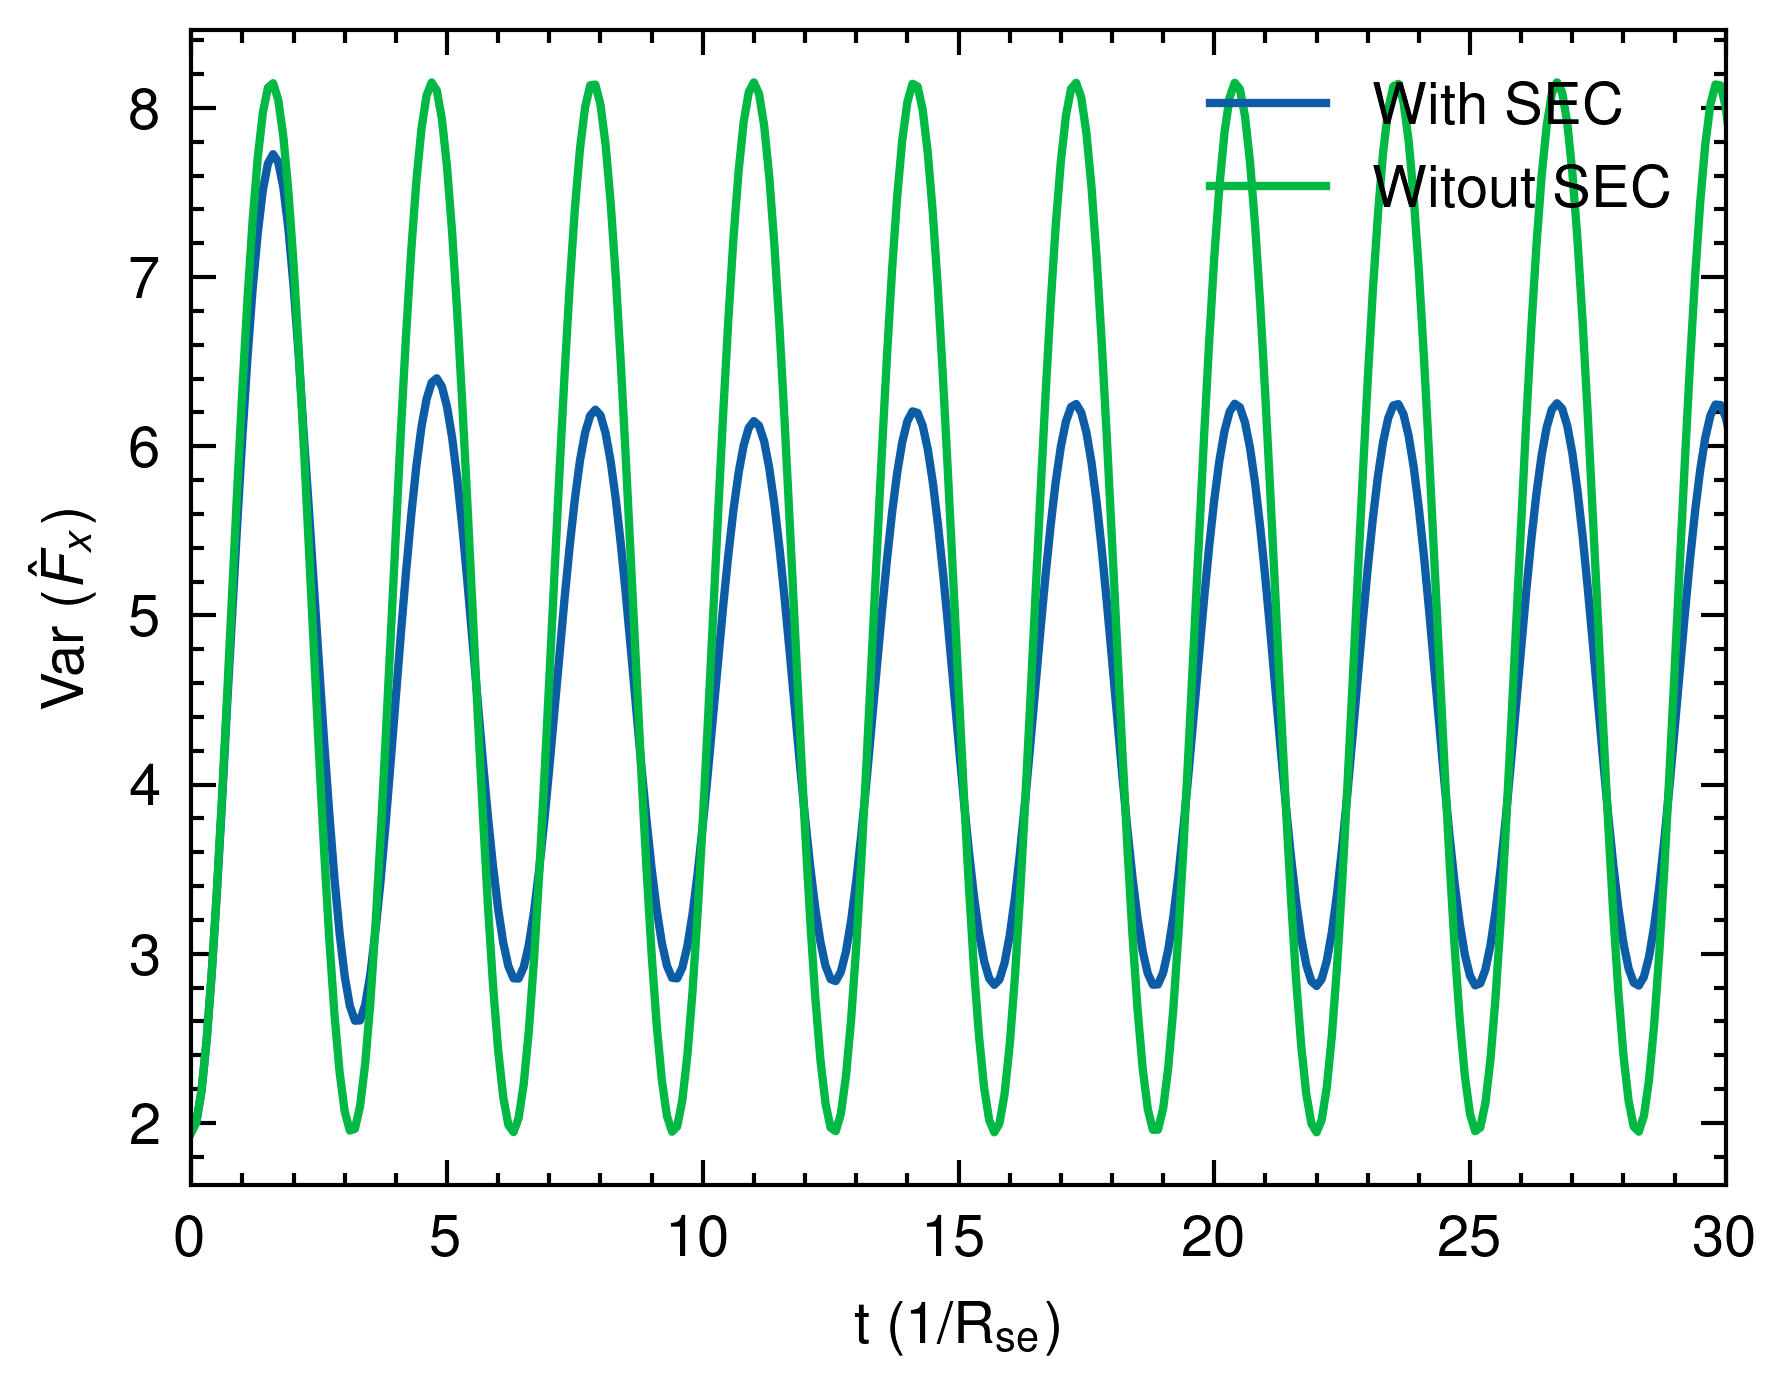
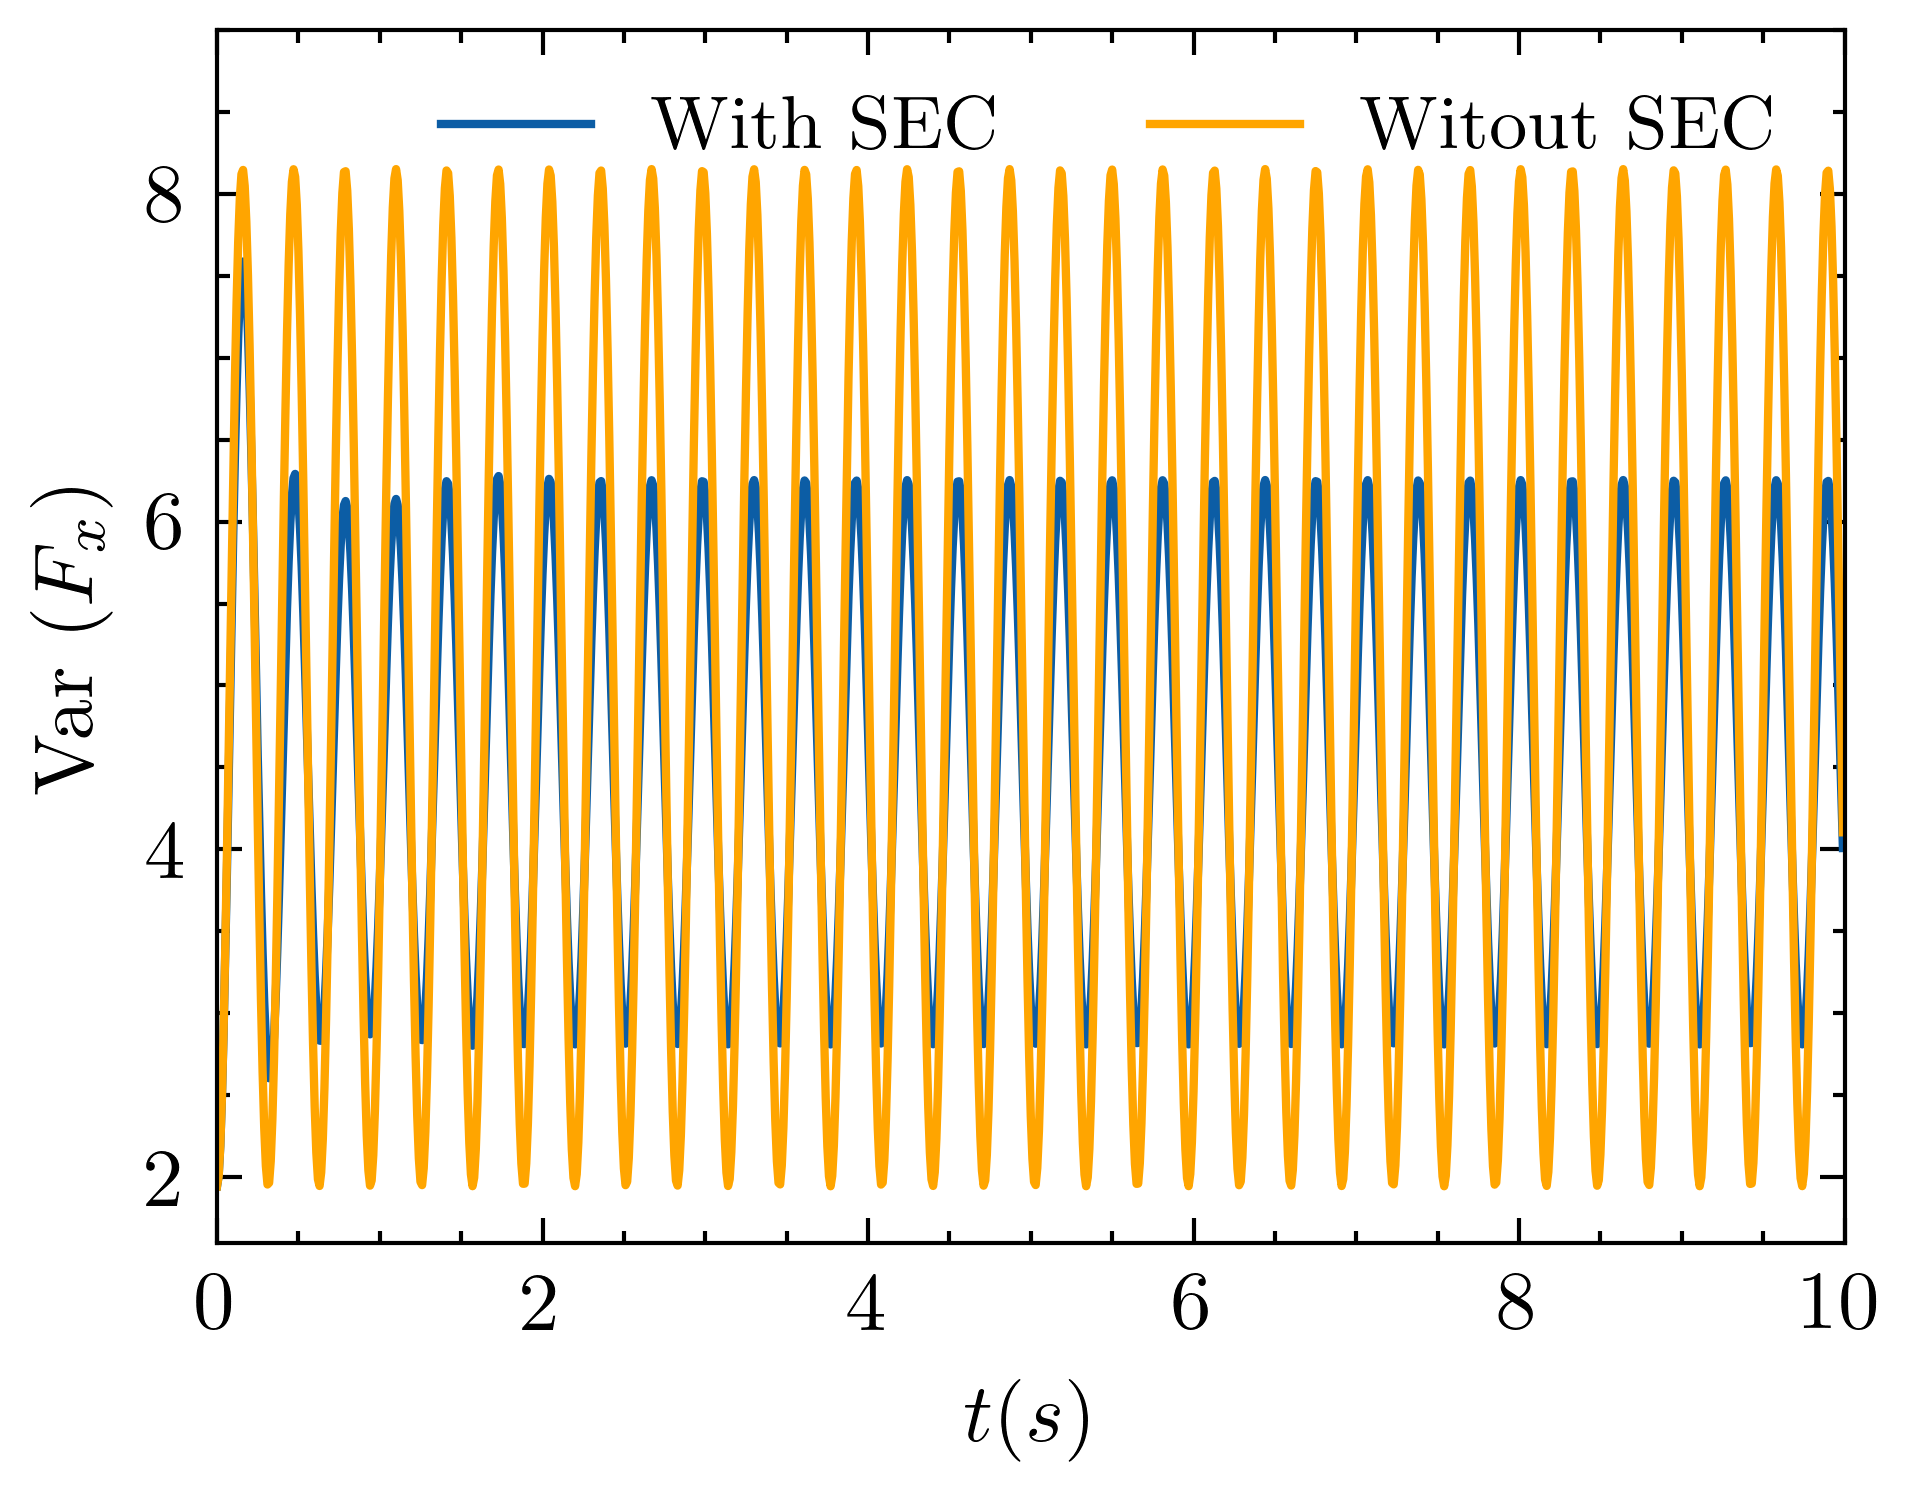
1

diff --git a/Simulation_of_DME/test.py b/Simulation_of_DME/test.py
@@ -25,11 +25,11 @@ def master_equation(I,Rse,omega_0,rf,T,Arf):
 
     # --------------------------------Characterize interactions envolved-----------------------------------#
     # omega_0 = 0.01
-    Rsd = 0.005
+    Rsd = 0.
     # sx=1  #/np.sqrt(2)
     # sz=0    #1/np.sqrt(2)
     # --------------------------------Define the initial state-----------------------------------#
-    theta = 0
+    theta = np.pi/4
     phi = 0
     a_theta = spin_Jx(a) * np.sin(theta) * np.cos(phi) + spin_Jy(a) * np.sin(theta) * np.sin(phi) + spin_Jz(a) * np.cos(
         theta)
@@ -42,7 +42,7 @@ def master_equation(I,Rse,omega_0,rf,T,Arf):
     Rho_ini = np.zeros(2 * (a + b + 1))
 
     # # -----------------spin temperature state-----------------#
-    P = 0.999
+    P = 0.9999999
     beta = np.log((1 + P) / (1 - P))
     for i in np.arange(0, 2 * (a + b + 1), 1):
         Rho_ini = Rho_ini + np.exp(beta * q[i]) * v[:, [i]] * v[:, [i]].T.conjugate()
@@ -54,18 +54,18 @@ def master_equation(I,Rse,omega_0,rf,T,Arf):
 
     # --------------------------------------Evolution under hyperfine effect, etc.--------------------------------#
     # omega_rev=1/100
-    omega_rev=0.25
+    omega_rev=0.15
     Rhot = Rho_ini
     dt = 0.01
     hyperfine = block_diag(np.ones((2 * a + 1, 2 * a + 1)), np.ones((2 * b + 1, 2 * b + 1)))  # 一个原子
     MSx = np.zeros(round(T / dt))
     for n in trange(0, round(T / dt), 1):
-        if n<round(T / dt)/50:
-            omega_1=Arf*np.sin(rf*n*dt)
-            probability=np.diagonal(Rhot)
-        else: omega_1=0
+        # if n<round(T / dt)/50:
+        #     omega_1=Arf*np.sin(rf*n*dt)
+        #     probability=np.diagonal(Rhot)
+        # else: omega_1=0
         # H = omega_0 * Sz+omega_1*Sy # 投影定理
-        H = omega_0 * az-omega_rev* az@az-omega_0*bz+omega_rev* bz@bz+omega_1*(ay-by) # 投影定理
+        H = omega_0 * az-omega_rev* az@az-omega_0*bz+omega_rev* bz@bz # 投影定理
         q, v = np.linalg.eig(H)
         evolving_B = v @ np.diag(np.exp(-1j * q * dt)) @ np.linalg.inv(v)
         # -----------------Evolution-----------------#
@@ -90,21 +90,32 @@ def master_equation(I,Rse,omega_0,rf,T,Arf):
         # -----------------Observables-----------------#
         MSx[n] = mSx
 
-    return MSx,probability
+    return MSx
 
 
 T1=1000
 dt=0.01
 # master_equation(I,Rse,omega_0,rf,T,Arf):
 
-Msy1,probability1=master_equation(3/2,0.,1,0.25,T1,100/1000)
+Msy1=master_equation(3/2,0.,0.1,2,T1,100/1000)
 # Msy2,probability2=master_equation(3/2,0.,1,1,T1,10/1000)
 # Msy3,probability3=master_equation(3/2,0.,1,1,T1,100/1000)
 # Msy4,probability4=master_equation(3/2,0.,1,1,T1,200/1000)
 tt=np.arange(0,T1,dt)
 m=[1,2,3,4,5,6,7,8]
 
+plt.style.use(['science'])
+with plt.style.context(['science']):
+    fig = plt.figure()
+    plt.rc('font',family='Times New Roman')
+    ax1 = fig.add_subplot(111)
+    pp,=ax1.plot(tt, Msy1)
+    ax1.set_ylabel('$\langle Sx \\rangle$')
+    ax1.set_xlabel('$t $')
+    ax1.axes.xaxis.set_ticklabels([])
 
+plt.savefig('FID_.png', dpi=1000)
+plt.show()
 # plt.style.use(['science','nature'])
 # with plt.style.context(['science','nature']):
 #     fig = plt.figure(figsize=(3.35, 8))
@@ -156,19 +167,19 @@ m=[1,2,3,4,5,6,7,8]
 # plt.savefig('FID_.png', dpi=1000)
 # plt.show()
 
-plt.style.use(['science','nature'])
-with plt.style.context(['science','nature']):
-    fig = plt.figure(figsize=(3.35, 4))
-    plt.rc('font',family='Times New Roman')
-    ax1 = fig.add_subplot(211)
-    ax1.bar(m, probability1)
-    ax1.set_xticks(m,['$|22\\rangle$','$|21\\rangle$','$|20\\rangle$','$|2,-1\\rangle$','$|2,-2\\rangle$','$|11\\rangle$','$|10\\rangle$','$|1,-1\\rangle$'])
-    ax1.set_ylabel('$P_m$', fontsize=9)
-    ax2 = fig.add_subplot(212)
-    ax2.plot(tt, Msy1)
-    ax2.set_ylabel('$Sx$', fontsize=9)
-    ax2.set_xlabel('$t$', fontsize=9)
-    ax2.legend(["$A_{rf}=\\frac {100 \omega_0} {1000}$,$T_{rf}=\\frac {20} { \omega_0}  $"])
+# plt.style.use(['science','nature'])
+# with plt.style.context(['science','nature']):
+#     fig = plt.figure(figsize=(3.35, 4))
+#     plt.rc('font',family='Times New Roman')
+#     ax1 = fig.add_subplot(211)
+#     ax1.bar(m, probability1)
+#     ax1.set_xticks(m,['$|22\\rangle$','$|21\\rangle$','$|20\\rangle$','$|2,-1\\rangle$','$|2,-2\\rangle$','$|11\\rangle$','$|10\\rangle$','$|1,-1\\rangle$'])
+#     ax1.set_ylabel('$P_m$', fontsize=9)
+#     ax2 = fig.add_subplot(212)
+#     ax2.plot(tt, Msy1)
+#     ax2.set_ylabel('$Sx$', fontsize=9)
+#     ax2.set_xlabel('$t$', fontsize=9)
+#     ax2.legend(["$A_{rf}=\\frac {100 \omega_0} {1000}$,$T_{rf}=\\frac {20} { \omega_0}  $"])
 
-    plt.savefig('FID2.png', dpi=1000)
-plt.show()
+#     plt.savefig('FID2.png', dpi=1000)
+# plt.show()

diff --git a/Correlations_and_squeezing/Faraday rotation measurement copy.py b/Correlations_and_squeezing/Faraday rotation measurement copy.py
@@ -4,30 +4,30 @@
 日期：2024年03月07日
 """
 # -*- coding:utf-8 -*-
+import sys
+sys.path.append(r"D:\python\pythonProject\Optically_pumped_atoms\my_functions")
 import numpy as np
 import matplotlib.pyplot as plt
-from qutip import *
-from my_functions.Generate_a_squeezed_state_by_QND import Generate_a_squeezed_state_by_QND
-from my_functions.alkali_atom_uncoupled_to_coupled import alkali_atom_uncoupled_to_coupled
+from Generate_a_squeezed_state_by_QND import Generate_a_squeezed_state_by_QND
+from alkali_atom_uncoupled_to_coupled import alkali_atom_uncoupled_to_coupled
 from scipy.linalg import *
-from my_functions.spin_operators_of_2or1_alkali_metal_atoms import spin_operators_of_2or1_alkali_metal_atoms
-from my_functions.ptr import ptr
+from spin_operators_of_2or1_alkali_metal_atoms import spin_operators_of_2or1_alkali_metal_atoms
+from ptr import ptr
 from scipy.linalg import *
 import scienceplots
 from matplotlib.ticker import FuncFormatter
 from scipy.stats import norm
-from tqdm import trange
 import pandas as pd
 
 # ax, ay, az, bx, by, bz, a1x, a2x, a1y, a2y, a1z, a2z, Fx, Fy, Fz
-x = np.array(pd.read_csv('data/x.csv')).flatten()
-C_1z2z = np.array(pd.read_csv('data/C_1z2z.csv')).flatten()
-C_1z1z  = np.array(pd.read_csv('data/C_1z1z.csv')).flatten()
+x = np.array(pd.read_csv('D:/Optically-pumped-atoms/data/x.csv')).flatten()
+C_1z2z = np.array(pd.read_csv('D:/Optically-pumped-atoms/data/C_1z2z.csv')).flatten()
+C_1z1z  = np.array(pd.read_csv('D:/Optically-pumped-atoms/data/C_1z1z.csv')).flatten()
 T=10
 dt=0.01
 Jx=np.arange(-4,4,0.01)
-plt.style.use(['science','nature'])
-with plt.style.context(['science','nature']):
+plt.style.use(['science'])
+with plt.style.context(['science']):
     tt = np.arange(0, T, dt)/10
     fig = plt.figure(figsize=(3.35, 4.8))
     ax_1  = fig.add_subplot(212)
@@ -39,7 +39,7 @@ with plt.style.context(['science','nature']):
     ax_1.plot([],[])
     ax_1.set_ylim([0,0.6])
 #     ax_1.plot(Jx,1/np.sqrt(2*np.pi)*np.exp(-Jx**2/2),linestyle='dashed')
-    ax_1.set_xlabel('$\\tilde{ J_x}$', fontsize=9)
+    ax_1.set_xlabel('$\langle{ F_x}\\rangle^{\prime}$', fontsize=9)
     ax_1.set_ylabel('Distribution@$t=1$', fontsize=9)
     ax_1.tick_params(axis='x', labelsize='9' )
     ax_1.tick_params(axis='y', labelsize='9' )
@@ -50,13 +50,13 @@ with plt.style.context(['science','nature']):
     up=C_1z1z+np.sqrt(C_1z2z)/2
     ax_2.plot(tt,C_1z1z)
     ax_2.fill_between(tt, down,up,facecolor = 'red', alpha = 0.5)
-    ax_2.text(8.5/10, 0.1, '$\mathbb{E}[\\tilde{ J_x}]$',fontsize=6)
-    ax_2.annotate('$\sqrt{ \widetilde{\mathrm{var}} (\hat {J_x}) }$', xy=(0.3/10, 1), xytext=(2/10, 1),
+    ax_2.text(8.5/10, 0.1, '$\mathbb{E}[\langle{ F_x}\\rangle^{\prime}]$',fontsize=6)
+    ax_2.annotate('$\sqrt{ {\mathrm{var}} ({F_x}) }$', xy=(0.3/10, 1), xytext=(2/10, 1),
             arrowprops=dict(arrowstyle='->', color='red'),fontsize=6)
 
     ax_2.plot(tt, np.zeros(1000),color='black',linestyle='dashed')
     ax_2.set_xlabel('t ($1/\Phi$)', fontsize=9)
-    ax_2.set_ylabel('$\\tilde{ J_x}$', fontsize=9)
+    ax_2.set_ylabel('$\langle{ F_x}\\rangle^{\prime}$', fontsize=9)
     ax_2.tick_params(axis='x', labelsize='9' )
     ax_2.tick_params(axis='y', labelsize='9' )
     ax_2.text(0.975, 1.5, '(a)',fontsize=8)

diff --git a/Correlations_and_squeezing/desqueezing by Zeeman and hyperfine effect.py b/Correlations_and_squeezing/desqueezing by Zeeman and hyperfine effect.py
@@ -61,11 +61,11 @@ if N == 3:
 
 # ----------------------electron spin----------------------#
 if N == 2:
-    Sx = np.kron(np.eye(round(2 * I + 1)), np.array(1 / 2 * sigmax()))
+    Sx = np.kron(np.eye(round(2 * I + 1)), np.array(1 / 2 * sigmax().full()))
     Sx = U.T.conjugate() @ Sx @ U
-    Sy = np.kron(np.eye(round(2 * I + 1)), np.array(1 / 2 * sigmay()))
+    Sy = np.kron(np.eye(round(2 * I + 1)), np.array(1 / 2 * sigmay().full()))
     Sy = U.T.conjugate() @ Sy @ U
-    Sz = np.kron(np.eye(round(2 * I + 1)), np.array(1 / 2 * sigmaz()))
+    Sz = np.kron(np.eye(round(2 * I + 1)), np.array(1 / 2 * sigmaz().full()))
     Sz = U.T.conjugate() @ Sz @ U
 
     S1x = np.kron(Sx, np.eye(2 * (a + b + 1)))
@@ -79,11 +79,11 @@ if N == 2:
     Pt12 = 3 / 4 * np.eye(round((2 * (2 * I + 1)) ** N)) + (S1x @ S2x + S1y @ S2y + S1z @ S2z)
     Pe12 = Pt12 - Ps12
 if N == 3:
-    Sx = np.kron(np.eye(round(2 * I + 1)), np.array(1 / 2 * sigmax()))
+    Sx = np.kron(np.eye(round(2 * I + 1)), np.array(1 / 2 * sigmax().full()))
     Sx = U.T.conjugate() @ Sx @ U
-    Sy = np.kron(np.eye(round(2 * I + 1)), np.array(1 / 2 * sigmay()))
+    Sy = np.kron(np.eye(round(2 * I + 1)), np.array(1 / 2 * sigmay().full()))
     Sy = U.T.conjugate() @ Sy @ U
-    Sz = np.kron(np.eye(round(2 * I + 1)), np.array(1 / 2 * sigmaz()))
+    Sz = np.kron(np.eye(round(2 * I + 1)), np.array(1 / 2 * sigmaz().full()))
     Sz = U.T.conjugate() @ Sz @ U
 
     S1x = np.kron(np.kron(Sx, np.eye(2 * (a + b + 1))), np.eye(2 * (a + b + 1)))
@@ -108,7 +108,7 @@ if N == 3:
     Pt23 = 3 / 4 * np.eye(round((2 * (2 * I + 1)) ** N)) + (S2x @ S3x + S2y @ S3y + S2z @ S3z)
     Pe23 = Pt23 - Ps23
 
-T = 10
+T = 20
 dt = 0.01
 n = round(T / dt)
 te = np.arange(0, T, dt)
@@ -126,7 +126,7 @@ C_a1za2z2 = [None] * n
 C_a1zb2z2 = [None] * n
 C_b1zb2z2 = [None] * n
 # ----------------------Magnetic field----------------------#
-omega_0 = 10
+omega_0 = 0.5
 # H = omega_e * (ax-bx)              #一个原子
 # H = omega_0 * (a1x + a2x - b1x - b2x)  # 两个原子
 H = omega_0 * (a1x + a2x + a3x - b1x - b2x - b3x)  # 三个原子
@@ -177,19 +177,20 @@ for t in np.arange(0, n, 1):
     Rho_atom = evolving_B @ Rho_atom @ evolving_B.T.conjugate()
     Rho_atom = hyperfine * Rho_atom
 
-tt = np.arange(0, n, 1)/10
-with plt.style.context(['science','nature']):
+tt = np.arange(0, n, 1)*0.01
+with plt.style.context(['science']):
     fig = plt.figure()
     ax1 = fig.add_subplot(1, 1, 1)
     p1, = ax1.plot(tt, C_1 )
-    p2, = ax1.plot(tt, C_2)
+    p2, = ax1.plot(tt, C_2,color='orange')
     ax1.legend([p1,p2],
                ["With SEC","Witout SEC"]
-               , loc='upper right')
-    ax1.set_xlabel('t (1/R$_{\mathrm{se}}$)')
-    ax1.set_ylabel('Var $(\hat F_{x})$')
-    plt.xlim(0, 30)
-    plt.savefig('graph1.png', dpi=600)
+               , loc='upper right',ncol=2,fontsize='9')
+    ax1.set_xlabel('$t$ (s)')
+    ax1.set_ylabel('Var $( F_{x})$')
+    # plt.xlim(0, 2)
+    plt.ylim(1.6,9)
+    plt.savefig('desqueezing.png', dpi=600)
 
     # fig = plt.figure()
     # ax2 = fig.add_subplot(1, 1, 1)

diff --git a/Correlations_and_squeezing/Faraday rotation measurement.py b/Correlations_and_squeezing/Faraday rotation measurement.py
@@ -81,7 +81,7 @@ with plt.style.context(['science','nature']):
     # for j in np.arange(0, N, 1):       
     #         ax_1.plot(tt, data[(j)*n:(j+1)*n],linewidth='0.5')
     ax_1.hist(x,bins=20,histtype='stepfilled',density=True)
-    ax_1.set_xlabel('$\\tilde{ J_x}$', fontsize=9)
+    ax_1.set_xlabel('$\langle{ F_x}\\rangle\prime$', fontsize=9)
     ax_1.tick_params(axis='x', labelsize='9' )
     ax_1.tick_params(axis='y', labelsize='9' )
 
@@ -90,13 +90,13 @@ with plt.style.context(['science','nature']):
     up=np.array(list(C_1z1z))+np.sqrt(np.array(list(C_1z2z)))/2
     ax_2.plot(tt,np.array(list(C_1z1z)))
     ax_2.fill_between(tt, down,up,facecolor = 'red', alpha = 0.5)
-    ax_2.text(8.5, 0.1, '$\mathbb{E}[\\tilde{ J_x}]$',fontsize=8)
-    ax_2.annotate('$ \sqrt{\langle \Delta \hat { J_x}^2 \\rangle_f}$', xy=(0.5, 1), xytext=(2, 1),
+    ax_2.text(8.5, 0.1, '$\mathbb{E}[\langle{ F_x}\\rangle\prime]$',fontsize=8)
+    ax_2.annotate('$ \sqrt{\langle \Delta \hat { F_x}^2 \\rangle_f}$', xy=(0.5, 1), xytext=(2, 1),
             arrowprops=dict(arrowstyle='->', color='red'),fontsize=6)
 
     ax_2.plot(tt, np.zeros(n),color='black',linestyle='dashed')
     ax_2.set_xlabel('t ($1/\Phi$)', fontsize=9)
-    ax_2.set_ylabel('$\\tilde{ J_x}$', fontsize=9)
+    ax_2.set_ylabel('$\langle{ F_x}\\rangle\prime$', fontsize=9)
     ax_2.tick_params(axis='x', labelsize='9' )
     ax_2.tick_params(axis='y', labelsize='9' )
     # ax_2.plot(tt, np.zeros(n),color='black',linestyle='dashed',linewidth='0.5')

diff --git a/my_functions/Generate_a_squeezed_state_by_QND.py b/my_functions/Generate_a_squeezed_state_by_QND.py
@@ -35,14 +35,14 @@ def Generate_a_squeezed_state_by_QND(N, I, T, s, alpha, dt):
     qy, vy = sy.eigenstates()
 
     # initiation
-    H = alpha * np.kron(Fz, sz)
+    H = alpha * np.kron(Fz, sz.full())
 
-    XiF_ini = np.vstack((np.array(spin_coherent(a, np.pi / 2, 0)), np.array(zero_ket(2 * b + 1))))
+    XiF_ini = np.vstack((np.array(spin_coherent(a, np.pi / 2, 0).full()), np.array(zero_ket(2 * b + 1).full())))
     if N == 2:
         XiF_ini = np.kron(XiF_ini, XiF_ini)
 
     ini_Rho_atom = np.outer(XiF_ini, XiF_ini)
-    Xis_ini = np.array(spin_coherent(s, np.pi / 2, 0))
+    Xis_ini = np.array(spin_coherent(s, np.pi / 2, 0).full())
     Rhos_ini = np.outer(Xis_ini, Xis_ini)
     Rho_ini = np.kron(ini_Rho_atom, Rhos_ini)
     Rhot = Rho_ini
@@ -52,10 +52,10 @@ def Generate_a_squeezed_state_by_QND(N, I, T, s, alpha, dt):
 
     # measurement
     if N == 1:
-        read = np.array(tensor(qeye(2 * (a + b + 1)), vy[5] * vy[5].dag()))
+        read = np.array(tensor(qeye(2 * (a + b + 1)), vy[5] * vy[5].dag()).full())
     if N == 2:
         read = np.array(
-            tensor(tensor(qeye(2 * (a + b + 1)), qeye(2 * (a + b + 1)), vy[5] * vy[5].dag())))
+            tensor(tensor(qeye(2 * (a + b + 1)), qeye(2 * (a + b + 1)), vy[5] * vy[5].dag())).full())
     Rho_r = read @ Rhot @ read.T.conjugate()
     Rho_r = Rho_r / Rho_r.trace()
     Rho_atom = ptr(Rho_r, 2 * s + 1, (2 * (a + b + 1)) ** N)

diff --git a/SERF_magnetometer/single_species.py b/SERF_magnetometer/single_species.py
@@ -8,7 +8,7 @@ def fun(X):
     global c,nu_D1,Gamma_D,Gamma_SD,delta_Bsp, Delta_nu,delta_Bph ,re,OD,n,vRb, vHeRb,vN2Rb
 
 #-----------------------碱金属原子种类-------------------------#
-    species='K'
+    species='Rb'
 #-----------------------缓冲气体和淬灭气体的气压(室温时）-------------------------#
     pN2=60
     pHe=760*3
@@ -29,7 +29,7 @@ def fun(X):
     kB=1.38e-23
     R=8.314/mol
     if species=='Rb':
-        T=273.5+160
+        T=273.5+50
     if species=='K':
         T=273.5+200
     mHe=0.004/mol

diff --git a/Correlations_and_squeezing/SEC relaxation of three Rb atoms on their correlation.py b/Correlations_and_squeezing/SEC relaxation of three Rb atoms on their correlation.py
@@ -66,7 +66,7 @@ Pe23 = Pt23 - Ps23
 # ----------------------state--------------------#
 
 
-xi = np.array([0, 0, 1, 0, 0, 0, 0, 0])
+xi = np.array([0, 1, 0, 0, 0, 0, 0, 0])
 Xi_ini =  np.kron(np.kron(xi
                                    , xi), xi)
 Rho_ini = np.outer(Xi_ini, Xi_ini)
